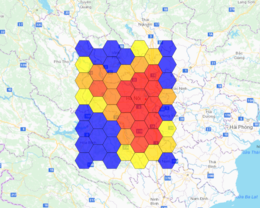
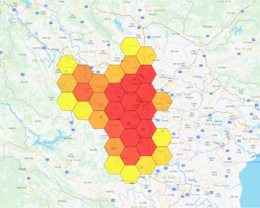
Update

diff --git a/examples/mapboxgl/turfjs_Voronoi.html b/examples/mapboxgl/turfjs_Voronoi.html
@@ -6,6 +6,7 @@
     <script src='https://api.mapbox.com/mapbox-gl-js/v1.11.1/mapbox-gl.js'></script>
     <link href='https://api.mapbox.com/mapbox-gl-js/v1.11.1/mapbox-gl.css' rel='stylesheet' />
     <script src="../../dist/mapboxgl/ekmap-mapboxgl.js"></script>
+    <script type="text/javascript" include="jquery,papaparse,widgets" src="../js/include-web.js"></script>
     <script src="../../examples/js/common.js"></script>
     <title>Turfjs Voronoi</title>
     <style>
@@ -29,43 +30,72 @@
     <script>
         var map = new mapboxgl.Map({
             container: 'divMapId',
-            center: [105, 17],
-            zoom: 5
+            center: [105.73695676666705, 20.967868701058933],
+            zoom: 9.641103242570315
         });
 
         var vnMap = new mapboxgl.ekmap.TiledVietNamMapLayer({
             token: tokenVN
         }).addTo(map);
-        
+
         map.addControl(new mapboxgl.NavigationControl(), "top-left");
 
         var options = {
-            bbox: [103.93415448887777, 19.23020794355574, 107.5003423821745, 22.394971481516805]
+            bbox: [105.49444188609516, 20.61618427060094, 105.98811702114466, 21.32137946373699]
         };
         var points = turf.randomPoint(100, options);
 
-        var voronoiPolygons = turf.voronoi(points, options);
-        var features = points.features;
-        features.forEach(feature => {
-            var marker = new mapboxgl.Marker({
-                'color': 'red'
+        //Data Source: https://moitruongthudo.vn/ 
+        $.get("../data/echarts_scatter.json", function (response) {
+            var voronoiPolygons = turf.voronoi(response, options);
+            console.log(voronoiPolygons)
+            map.addLayer({
+                'id': 'polygon',
+                'type': 'fill',
+                'source': {
+                    'type': 'geojson',
+                    'data': voronoiPolygons
+                },
+                'paint': {
+                    'fill-color': 'orange',
+                    'fill-opacity': 0.7,
+                    'fill-outline-color': 'black'
+                }
             })
-                .setLngLat(feature.geometry.coordinates)
-                .addTo(map);
-        });
-        
-        map.addLayer({
-            'id': 'park-boundary',
-            'type': 'fill',
-            'source': {
-                'type': 'geojson',
-                'data': voronoiPolygons
-            },
-            'paint': {
-                'fill-color': 'orange',
-                'fill-opacity': 0.7,
-                'fill-outline-color':'black'
-            }
+
+            map.addLayer({
+                'id': 'points',
+                'type': 'circle',
+                'source': {
+                    'type': 'geojson',
+                    'data': response
+                },
+                'paint': {
+                    'circle-radius': 6,
+                    'circle-color': '#B42222'
+                }
+            });
+
+            map.moveLayer('polygon', 'points')
+        })
+
+        map.on('click', function (e) {
+            var bbox = [
+                [e.point.x - 5, e.point.y - 5],
+                [e.point.x + 5, e.point.y + 5]
+            ];
+            var features = map.queryRenderedFeatures(bbox, {
+                layers: ['polygon']
+            });
+            console.log(features)
+            var filter = features.reduce(
+                function (memo, feature) {
+                    console.log(feature)
+                    memo.push(feature.properties.OBJECTID);
+                    return memo;
+                },
+                ['in', 'OBJECTID']
+            );
         })
     </script>
 </body>

diff --git a/examples/mapboxgl/turfjs_Hexagon.html b/examples/mapboxgl/turfjs_Hexagon.html
@@ -83,15 +83,6 @@
                                 </span>
                             </li>
                         </ul>
-                        <ul class="noteType">
-                            <li>
-                                <img class="imgNote" width="13" height="13"
[1 lines of base64/hex data omitted]
-                                <span style="padding-left: 15px;">
-                                    No store
-                                </span>
-                            </li>
-                        </ul>
                     </li>
                 </ul>
             </div>
@@ -129,13 +120,19 @@
                     ['linear'],
                     ['get', 'count'],
                     0,
-                    'blue',
-                    0.1,
                     'yellow',
                     1000,
-                    'red',
+                    'red'
                 ],
-                'fill-opacity': 0.7,
+                'fill-opacity': [
+                    'interpolate',
+                    ['linear'],
+                    ['get', 'count'],
+                    0,
+                    0,
+                    1,
+                    0.7
+                ],
                 'fill-outline-color': 'black'
             }
         })
@@ -151,7 +148,6 @@
             });
             var points = turf.points(listPoint);
 
-
             for (var x = 0; x < Object.keys(hexgrid.features).length; x++) {
                 var polygon = hexgrid.features[x].geometry.coordinates;
                 var searchWithin = turf.polygon(polygon);
@@ -163,8 +159,10 @@
                     },
                     "geometry": hexgrid.features[x].geometry
                 })
+               console.log(ptsWithin.features.length)
             }
         }).done(function () {
+            console.log(fea)
             var dataDensity = {
                 "type": "FeatureCollection",
                 "features": fea

diff --git a/examples/js/example.js b/examples/js/example.js
@@ -110,17 +110,17 @@ function createGalleryChart(example) {
         version = example.version;
 
     var chartDiv = $("<div class='col-md-3'></div>");
-    var chart = $("<div class='chart' style='max-width: none;height: 24rem;'></div>");
+    var chart = $("<div class='chart' style='max-width: none;height: 21rem;'></div>");
     var link = $("<a class='chart-link' style='width: 100% !important;'x target='_blank' href='" + target + "#" + href + "'></a>");
     var divHeader = $("<div style='text-align: center'></div>");
     // var div = $("<div class='col-md-6' style='padding:10px'></div>")
     var chartTitle = $("<p style='color: #1a94fb;padding: 2px;overflow: hidden;height: 36px;line-height: 36px;text-overflow: ellipsis;white-space: nowrap;margin: 0;font-weight: 700;font-size: 16px;'>" + title + "</p>");
-    var chartSmall = $("<p style='color: #1a94fb;margin: 0 !important;'>"+ '('+ href + '.html)'  +"</p>")
+    var chartSmall = $("<p style='color: #94ac7c;margin: 0 !important;'>"+ '('+ href + '.html)'  +"</p>")
     var divBody = $("<div style='display: flex;'></div>");
     var divSubject = $("<div class='col-md-6' style='padding: 10px;'></div>")
     var chartSubject = $("<p style='color: #2c3b41;padding: 2px;font-size: 14.4px;'>" + subject + "</p>");
     var newTip = $('<svg xmlns="http://www.w3.org/2000/svg" class="new-example" style="width:8px !important;height:8px;right: 1px;top: 1px;position: absolute;"><circle cx="4" cy="4" r="4" fill="#e14d57"></circle></svg>');
-    var thumb = $("<img class='col-md-6' src='" + thumbnail + "' data-original='" + thumbnail + "' style='display: inline;padding: 10px;border-radius: 4px; height: 18rem;object-fit: cover;'>");
+    var thumb = $("<img class='col-md-6' src='" + thumbnail + "' data-original='" + thumbnail + "' style='display: inline;padding: 10px;border-radius: 4px; height: 15rem;object-fit: cover;'>");
 
     chartTitle.appendTo(divHeader);
     chartSmall.appendTo(divHeader);
